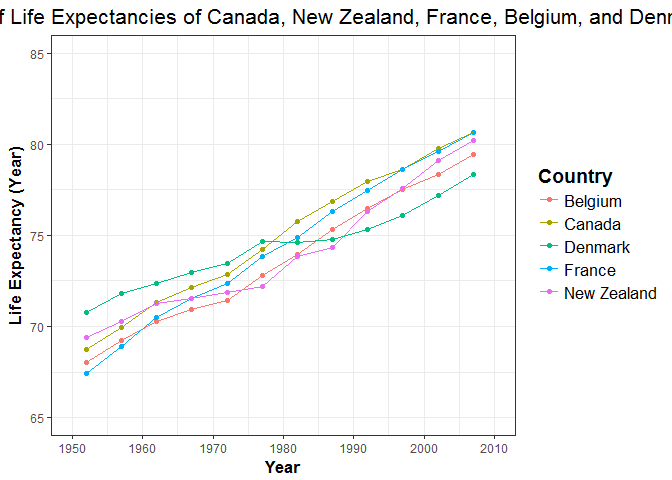
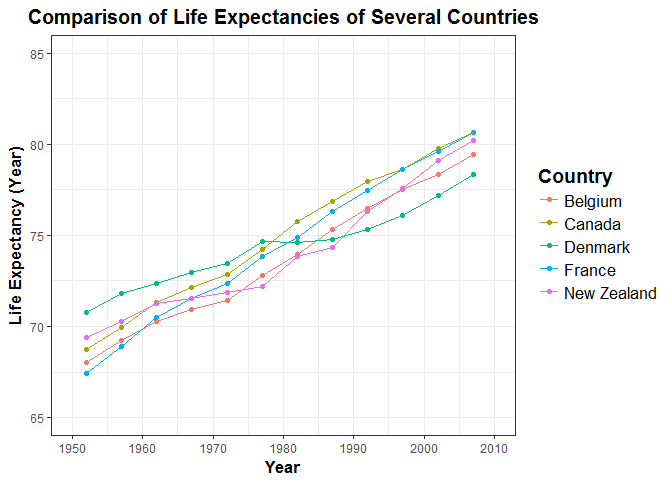
edit to figure 2

Changed region(s): [[0.0, 0.0, 1.0, 0.0625]]

diff --git a/hw04/hw_04.md b/hw04/hw_04.md
@@ -264,12 +264,12 @@ ggplot(data.long,aes(x = year, y = lifeExp, colour = country)) +
                      limits = c(65, 85)) +
   theme_bw() +
   theme(axis.title = element_text(size=14, face="bold"),
-        plot.title = element_text(size=16, hjust=0.48),
+        plot.title = element_text(size=15, face="bold", hjust=0.48),
         axis.title.x = element_text(size=13),
         axis.title.y = element_text(size=13),
         legend.title = element_text(size=14, face="bold"),
         legend.text = element_text(size=13)) +
-  labs(x = "Year", y = "Life Expectancy (Year)", title = "Comparison of Life Expectancies of Canada, New Zealand, France, Belgium, and Denmark")
+  labs(x = "Year", y = "Life Expectancy (Year)", title = "Comparison of Life Expectancies of Several Countries")
 ```
 
 ![](hw_04_files/figure-markdown_github-ascii_identifiers/unnamed-chunk-4-1.png)
